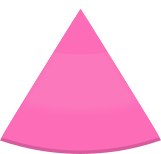
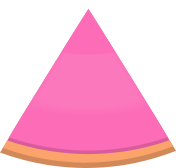
Add donut bg (to first 5 levels)

diff --git a/Assets/Bomb.cs b/Assets/Bomb.cs
@@ -14,8 +14,10 @@ public class Bomb : MonoBehaviour
 	public bool PieceWillGoInHole(GameObject piece, GameObject hole, float secLeft)
 	{
 		if (piece == null) return false;
+		var bomb = GetChildWithName("BombBody");
+		if (bomb == null) return false;
 
-		float bombHeight = GetChildWithName("BombBody").GetComponent<SpriteRenderer>().bounds.size.y;
+		float bombHeight = bomb.GetComponent<SpriteRenderer>().bounds.size.y;
 		float leftOffset = piece.tag == "Triangle" ? 0.18f : -0.05f;
 		float rightOffset = piece.tag == "Triangle" ? 0.475f : 0.42f;
 		Vector3 holeLeft = hole.transform.position + (-hole.transform.right * (leftOffset + 0.002f));
